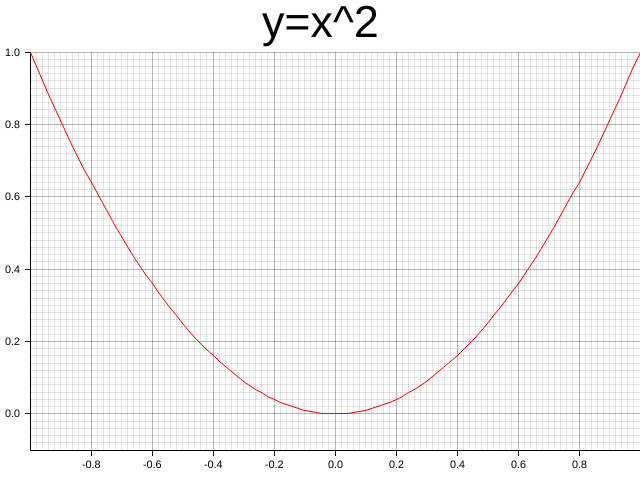
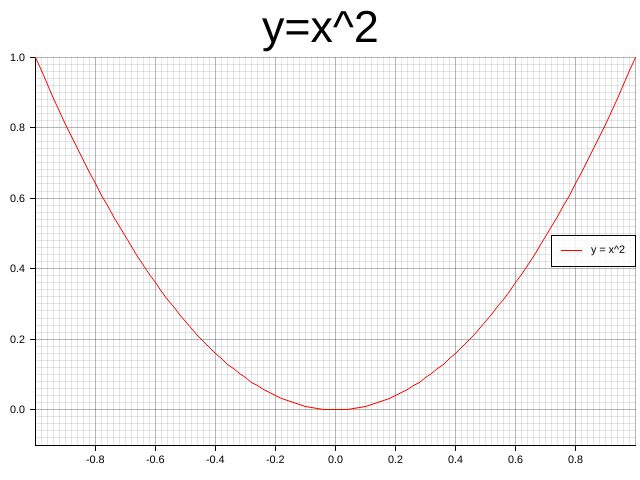
Update the quick start example with series label

diff --git a/src/drawing/backend_impl/mocked.rs b/src/drawing/backend_impl/mocked.rs
@@ -1,7 +1,7 @@
-use crate::drawing::backend::{BackendCoord, DrawingErrorKind, DrawingBackend, BackendStyle};
-use crate::drawing::DrawingArea;
 use crate::coord::Shift;
 use crate::drawing::area::IntoDrawingArea;
+use crate::drawing::backend::{BackendCoord, BackendStyle, DrawingBackend, DrawingErrorKind};
+use crate::drawing::DrawingArea;
 use crate::style::{Color, FontDesc};
 
 pub struct RGBA(pub u8, pub u8, pub u8, pub f64);
@@ -68,10 +68,10 @@ impl std::fmt::Display for MockedError {
 
 impl std::error::Error for MockedError {}
 
-fn to_rgba<T:Color>(color:&T) -> RGBA {
-    let (r,g,b) = color.rgb();
+fn to_rgba<T: Color>(color: &T) -> RGBA {
+    let (r, g, b) = color.rgb();
     let a = color.alpha();
-    RGBA(r,g,b,a)
+    RGBA(r, g, b, a)
 }
 
 impl DrawingBackend for MockedBackend {
@@ -118,7 +118,7 @@ impl DrawingBackend for MockedBackend {
         }
         Ok(())
     }
-    
+
     fn draw_rect<S: BackendStyle>(
         &mut self,
         upper_left: BackendCoord,
@@ -133,7 +133,7 @@ impl DrawingBackend for MockedBackend {
         }
         Ok(())
     }
-    
+
     fn draw_path<S: BackendStyle, I: IntoIterator<Item = BackendCoord>>(
         &mut self,
         path: I,
@@ -146,7 +146,7 @@ impl DrawingBackend for MockedBackend {
         }
         Ok(())
     }
-    
+
     fn draw_circle<S: BackendStyle>(
         &mut self,
         center: BackendCoord,
@@ -161,7 +161,7 @@ impl DrawingBackend for MockedBackend {
         }
         Ok(())
     }
-    
+
     fn draw_text<'a, C: Color>(
         &mut self,
         text: &str,
@@ -176,10 +176,13 @@ impl DrawingBackend for MockedBackend {
         }
         Ok(())
     }
-
 }
 
-pub fn create_mocked_drawing_area<F:FnOnce(&mut MockedBackend)>(width:u32, height:u32, setup: F) -> DrawingArea<MockedBackend, Shift> {
+pub fn create_mocked_drawing_area<F: FnOnce(&mut MockedBackend)>(
+    width: u32,
+    height: u32,
+    setup: F,
+) -> DrawingArea<MockedBackend, Shift> {
     let mut backend = MockedBackend::new(width, height);
     setup(&mut backend);
     backend.into_drawing_area()

diff --git a/src/lib.rs b/src/lib.rs
@@ -86,6 +86,7 @@ fn main() -> Result<(), Box<dyn std::error::Error>> {
     root.fill(&White)?;
     let mut chart = ChartBuilder::on(&root)
         .caption("y=x^2", &("Arial", 50).into_font())
+        .margin(5)
         .x_label_area_size(30)
         .y_label_area_size(30)
         .build_ranged(-1f32..1f32, -0.1f32..1f32)?;
@@ -94,8 +95,16 @@ fn main() -> Result<(), Box<dyn std::error::Error>> {
 
     chart.draw_series(LineSeries::new(
         (-50..=50).map(|x| x as f32 / 50.0).map(|x| (x, x * x)),
-        &RGBColor(255, 0, 0),
-    ))?;
+        &Red,
+    ))?
+        .label("y = x^2")
+        .legend(|(x,y)| Path::new(vec![(x,y), (x + 20,y)], &Red));
+
+    chart.configure_series_labels()
+        .background_style(&White.mix(0.8))
+        .border_style(&Black)
+        .draw()?;
+
     Ok(())
 }
 ```

diff --git a/doc-template/examples/quick_start.rs b/doc-template/examples/quick_start.rs
@@ -4,15 +4,24 @@ fn main() -> Result<(), Box<dyn std::error::Error>> {
     root.fill(&White)?;
     let mut chart = ChartBuilder::on(&root)
         .caption("y=x^2", &("Arial", 50).into_font())
+        .margin(5)
         .x_label_area_size(30)
         .y_label_area_size(30)
         .build_ranged(-1f32..1f32, -0.1f32..1f32)?;
 
     chart.configure_mesh().draw()?;
-
+ 
     chart.draw_series(LineSeries::new(
         (-50..=50).map(|x| x as f32 / 50.0).map(|x| (x, x * x)),
-        &RGBColor(255, 0, 0),
-    ))?;
+        &Red,
+    ))?
+        .label("y = x^2")
+        .legend(|(x,y)| Path::new(vec![(x,y), (x + 20,y)], &Red));
+
+    chart.configure_series_labels()
+        .background_style(&White.mix(0.8))
+        .border_style(&Black)
+        .draw()?;
+
     Ok(())
 }

diff --git a/src/element/basic_shapes.rs b/src/element/basic_shapes.rs
@@ -52,7 +52,8 @@ fn test_pixel_element() {
             assert_eq!(c.3, 1.0);
         });
     });
-    da.draw(&Pixel::new((150, 152), &Red)).expect("Drawing Failure");
+    da.draw(&Pixel::new((150, 152), &Red))
+        .expect("Drawing Failure");
 }
 
 /// An element of a series of connected lines
@@ -104,7 +105,8 @@ fn test_path_element() {
             assert_eq!(path, vec![(100, 101), (105, 107), (150, 157)]);
         });
     });
-    da.draw(&Path::new(vec![(100, 101), (105, 107), (150, 157)], &Blue)).expect("Drawing Failure");
+    da.draw(&Path::new(vec![(100, 101), (105, 107), (150, 157)], &Blue))
+        .expect("Drawing Failure");
 }
 
 /// A rectangle element

diff --git a/src/chart/series.rs b/src/chart/series.rs
@@ -145,7 +145,7 @@ impl<'a, DB: DrawingBackend, CT: CoordTranslate> SeriesLabelStyle<'a, DB, CT> {
 
         drawing_area.draw(&Rectangle::new(
             [(label_x, label_y), (label_x + w, label_y + h)],
-            self.background.clone(),
+            self.background.filled(),
         ))?;
         drawing_area.draw(&Rectangle::new(
             [(label_x, label_y), (label_x + w, label_y + h)],

diff --git a/src/drawing/backend_impl/mod.rs b/src/drawing/backend_impl/mod.rs
@@ -16,4 +16,4 @@ pub use canvas::CanvasBackend;
 #[cfg(test)]
 mod mocked;
 #[cfg(test)]
-pub use mocked::{MockedBackend, create_mocked_drawing_area};
+pub use mocked::{create_mocked_drawing_area, MockedBackend};

diff --git a/README.md b/README.md
@@ -55,16 +55,25 @@ fn main() -> Result<(), Box<dyn std::error::Error>> {
     root.fill(&White)?;
     let mut chart = ChartBuilder::on(&root)
         .caption("y=x^2", &("Arial", 50).into_font())
+        .margin(5)
         .x_label_area_size(30)
         .y_label_area_size(30)
         .build_ranged(-1f32..1f32, -0.1f32..1f32)?;
 
     chart.configure_mesh().draw()?;
-
+ 
     chart.draw_series(LineSeries::new(
         (-50..=50).map(|x| x as f32 / 50.0).map(|x| (x, x * x)),
-        &RGBColor(255, 0, 0),
-    ))?;
+        &Red,
+    ))?
+        .label("y = x^2")
+        .legend(|(x,y)| Path::new(vec![(x,y), (x + 20,y)], &Red));
+
+    chart.configure_series_labels()
+        .background_style(&White.mix(0.8))
+        .border_style(&Black)
+        .draw()?;
+
     Ok(())
 }
 ```
